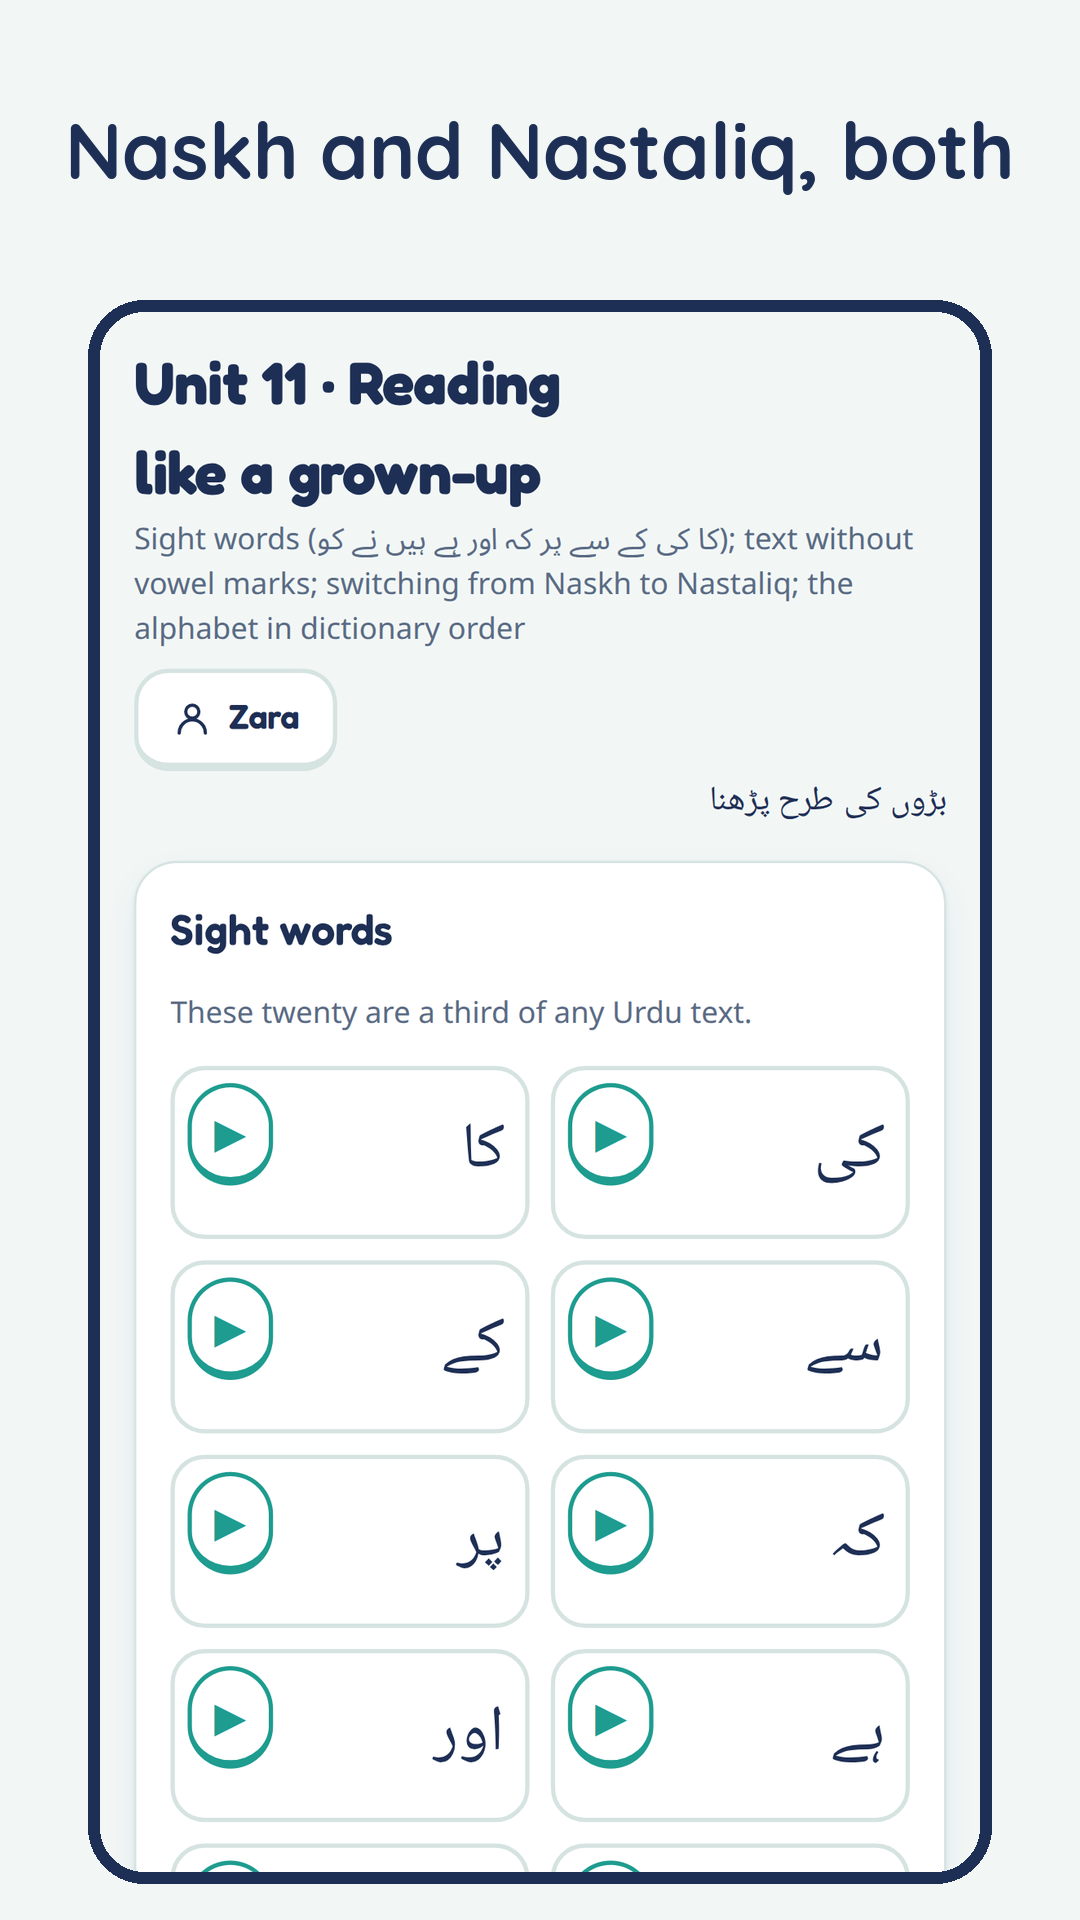
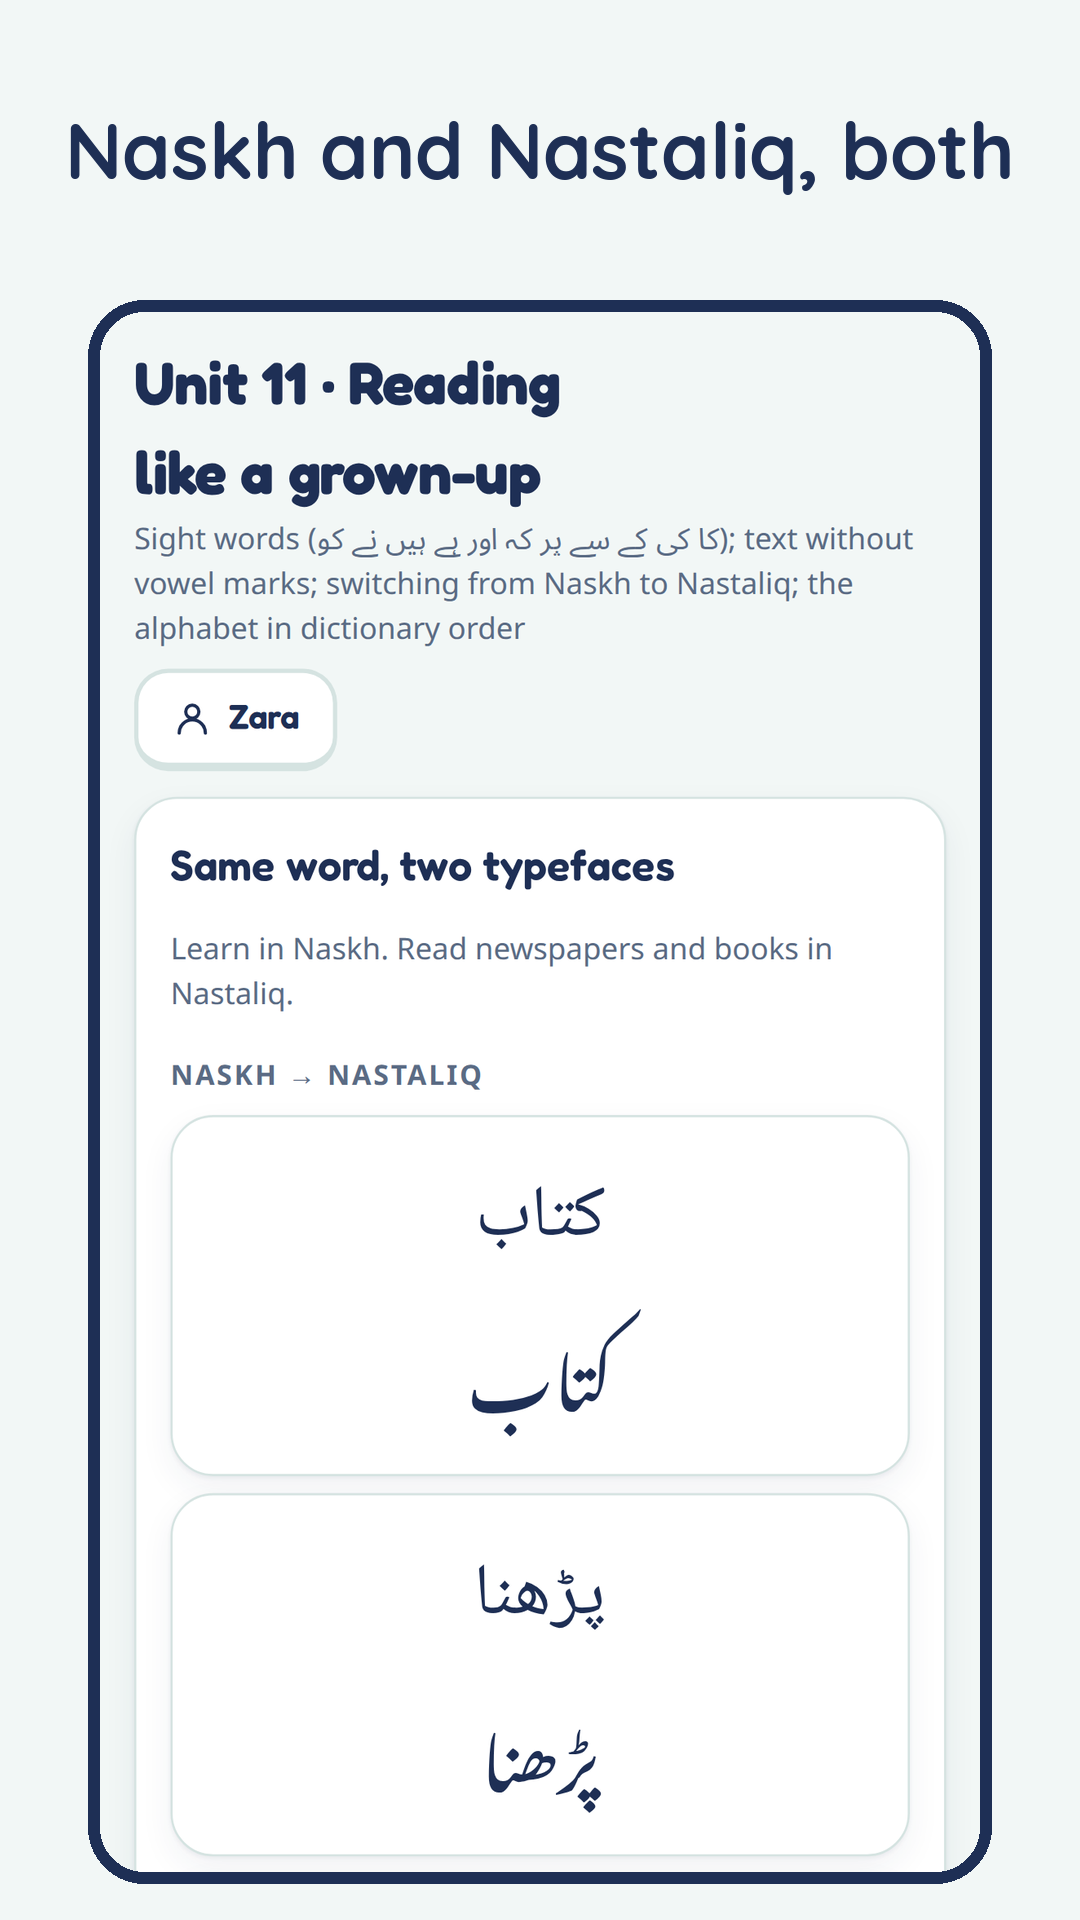
store: seeded screenshots, Play Console checklist; sweep driver waits for path render

diff --git a/mobile/tools/store_shots.py b/mobile/tools/store_shots.py
@@ -5,6 +5,16 @@ with sync_playwright() as p:
     b=p.chromium.launch(); ctx=b.new_context(viewport={"width":412,"height":880}, device_scale_factor=2.62); pg=ctx.new_page(); pg.on("dialog", lambda d: d.accept())
     pg.goto(f"http://localhost:{port}/"); pg.wait_for_timeout(1800); pg.screenshot(path=f"{out}/08_mode.png")
     pg.click("text=Just me"); pg.wait_for_timeout(300); pg.click("text=+ Add a learner"); pg.fill("input[placeholder=Name]","Zara"); pg.click("button:has-text('Start')"); pg.wait_for_timeout(1500)
+    # seed realistic demo progress so the Progress screenshot doesn't show zeros
+    pid = pg.evaluate("(async()=>{const {db}=await import('/src/db.js');const p=(await db.all('profiles'))[0];return p.id})()")
+    pg.evaluate("""async (pid)=>{const {db,uid}=await import('/src/db.js');const S=await import('/src/session.js');const now=Date.now(),DAY=86400000;
+      const p={id:pid,units:{},wpm:[],sessions:14,lastSession:now};for(let n=0;n<=6;n++)p.units[n]={passed:true,score:9,total:10,at:now-(7-n)*3*DAY};p.units[7]={lessons:{L1:now,L2:now}};
+      p.wpm=[22,28,31,37,44,49,58].map((w,i)=>({ts:now-(7-i)*4*DAY,wpm:w,unit:i+1}));await db.put('progress',p);
+      await S.ensureCards(pid,7);const cards=await db.by('cards','profileId',pid);let i=0;for(const c of cards){i++;const box=i%5===0?1:i%3===0?3:4+(i%2);await db.put('cards',{...c,box,seen:box+2,due:now+(i%4)*DAY-DAY,last:now-DAY});}
+      const drills=['tell','join','read','trace','dictation','quiz'];for(let k=0;k<90;k++){await db.put('attempts',{id:uid(),profileId:pid,unit:1+(k%6),drill:drills[k%6],item:cards[k%cards.length].item,correct:k%7!==0,ms:0,ts:now-(k%13)*DAY});}
+      for(let d=0;d<20;d++){await db.put('sessions',{id:uid(),profileId:pid,startedAt:now-(27-d-(d%3))*DAY,endedAt:now-(27-d-(d%3))*DAY+600000,bites:5,correct:9,total:10});}}""", pid)
+    pg.reload(); pg.wait_for_timeout(3500); pg.click(".bottom button:has-text('Progress')"); pg.wait_for_timeout(2000); pg.screenshot(path=f"{out}/07_progress.png")
+    pg.evaluate("""async()=>{const {db}=await import('/src/db.js');const p=(await db.all('profiles'))[0];const pr=await db.get('progress',p.id);pr.units={};pr.wpm=[];pr.sessions=0;await db.put('progress',pr);for(const c of await db.by('cards','profileId',p.id))await db.del('cards',c.id);}"""); pg.reload(); pg.wait_for_timeout(1500)
     # finish unit 0 quickly, then open alif
     pg.click(".btn-primary.btn-wide"); pg.wait_for_timeout(600)
     for _ in range(3): pg.click("button:has-text('Continue')"); pg.wait_for_timeout(350)
@@ -16,7 +26,7 @@ with sync_playwright() as p:
     pg.click(".bottom button:has-text('Units')"); pg.wait_for_timeout(700); pg.click(".ucard:nth-child(2)"); pg.wait_for_timeout(1200)
     pg.wait_for_selector(".words", timeout=8000); pg.evaluate("""()=>{const h=[...document.querySelectorAll('h3')].find(h=>h.textContent.includes('Read it'));const main=h.parentElement;[...main.children].forEach(c=>{if(c!==h&&c!==h.nextElementSibling&&!c.matches('.row,.bottom'))c.style.display='none'});h.style.marginTop='24px';window.scrollTo(0,0)}"""); pg.wait_for_timeout(400); pg.screenshot(path=f"{out}/04_words.png")
     pg.click(".bottom button:has-text('Units')"); pg.wait_for_timeout(700); pg.click(".ucard:nth-child(12)"); pg.wait_for_timeout(1200)
-    pg.wait_for_selector(".nastaliq", timeout=8000); pg.evaluate("""()=>{const card=document.querySelector('.nastaliq').closest('.card');const main=card.parentElement;[...main.children].forEach(c=>{if(c!==card&&!c.matches('.row,.bottom'))c.style.display='none'});card.querySelector('.words')?.remove();[...card.querySelectorAll('h2,p')].forEach(x=>x.remove());const h=document.createElement('h2');h.textContent='Naskh for learning, Nastaliq for print';card.prepend(h);window.scrollTo(0,0)}"""); pg.wait_for_timeout(400); pg.screenshot(path=f"{out}/05_nastaliq.png")
+    pg.wait_for_selector(".nastaliq", timeout=8000); pg.evaluate("""()=>{const h=[...document.querySelectorAll('.card h3')].find(x=>x.textContent.includes('Nastaliq'));const card=h.closest('.card');const main=card.parentElement;[...main.children].forEach(c=>{if(c!==card&&!c.matches('.row,.bottom'))c.style.display='none'});const keep=new Set([h,h.nextElementSibling]);[...card.children].forEach(c=>{if(!keep.has(c))c.remove()});const t=document.createElement('h2');t.textContent='Same word, two typefaces';card.prepend(t);const pp=document.createElement('p');pp.className='muted';pp.textContent='Learn in Naskh. Read newspapers and books in Nastaliq.';t.after(pp);[...card.querySelectorAll('.row .card')].forEach(x=>{x.style.width='100%';x.style.fontSize='34px'});window.scrollTo(0,0)}"""); pg.wait_for_timeout(400); pg.screenshot(path=f"{out}/05_nastaliq.png")
     # teacher assess
     ctx2=b.new_context(viewport={"width":412,"height":880}, device_scale_factor=2.62); pg2=ctx2.new_page(); pg2.on("dialog", lambda d: d.accept()); pg2.goto(f"http://localhost:{port}/"); pg2.wait_for_timeout(1500)
     pg2.click("text=My class"); pg2.wait_for_timeout(400); pg2.fill("input[placeholder='Your name']","Ms Sana"); pg2.fill("input[placeholder='4-digit PIN']","1234"); pg2.click("button:has-text('Save')"); pg2.wait_for_timeout(600)

diff --git a/mobile/tools/drive_all.py b/mobile/tools/drive_all.py
@@ -105,6 +105,9 @@ with sync_playwright() as p:
     while time.time()-t0<1500:
         js(pg.query_selector(".bottom button:has-text('Learn')")); pg.wait_for_timeout(700)
         if pg.query_selector("text=You have finished the course"): print("COURSE COMPLETE"); break
+        try: pg.wait_for_selector("button:has-text('Start:'), button:has-text('Continue:'), text=You have finished the course", timeout=8000)
+        except Exception: pass
+        if pg.query_selector("text=You have finished the course"): print("COURSE COMPLETE"); break
         sb=pg.query_selector("button:has-text('Start:')") or pg.query_selector("button:has-text('Continue:')")
         if not sb: print("no start button"); pg.screenshot(path="sweep_nostart.png", full_page=True); break
         label=sb.inner_text(); unit_title=pg.evaluate("e=>e.closest('.card').querySelector('.pill').innerText", sb)

diff --git a/store/PLAY_CONSOLE_CHECKLIST.md b/store/PLAY_CONSOLE_CHECKLIST.md
@@ -1,0 +1,44 @@
+# Play Console checklist · Urdu Qaida: Read & Quiz (com.oyekamal.urdureader)
+
+Everything the app side needs is in this folder. The steps below can only be done by Kamal in Play Console.
+Sources: research/16_play_store_readiness.md (official Google pages, fetched 2026-09-19).
+
+## 1. Account
+- [ ] Personal developer account ($25 once), identity verified.
+
+## 2. First upload
+- [ ] Upload `~/.kamil-harness/keys/releases/urdu-reader-0.7.0.aab` (versionCode 9, targetSdk 36) to an **Internal testing** track.
+- [ ] Enrol in Play App Signing when asked (upload key = the keystore in ~/.kamil-harness/keys/urdu-reader.env).
+
+## 3. Declarations (answer exactly like this)
+| Form | Answer |
+|---|---|
+| Data safety | **No data collected. No data shared.** All data on device; user-initiated export via Android share sheet. |
+| Privacy policy URL | https://oyekamal.github.io/urdu-reading-course/docs/privacy.html |
+| Ads | No ads |
+| App access | All functionality available without restrictions (no login) |
+| Content rating (IARC) | Category Education; no violence, no user-generated content, no gambling, no ads, no purchases → expect Everyone |
+| Target audience | Mixed: 5–8, 9–12, 13–15, 16–17, 18+ (children learn; parents and teachers use teacher/parent modes) |
+| Government / News / COVID / Financial features | No / No / No / No (Easypaisa donate is an outbound link, no in-app payment processing) |
+| Health | No |
+
+## 4. Store listing (copy from this folder)
+- `listing_en.md` → default listing (en-US). `listing_ur.md` → add localised listing ur-PK.
+- Icon `icon-512.png`, feature graphic `feature-graphic-1024x500.png`, screenshots `screenshots_en/01..08.png` (upload in that order), `screenshots_ur/` for the Urdu listing.
+- Category: Education. Tags: Language learning, Kids. Contact email + the WhatsApp number. Free, all countries (Pakistan first).
+
+## 5. Closed testing gate (new personal accounts)
+- [ ] Create a **Closed testing** track, add ≥12 testers (email list or Google Group), send the opt-in link.
+- [ ] Keep them opted in for **14 uninterrupted days**. Ask each to open the app at least once.
+- [ ] After 14 days: **Apply for production access** (dashboard). Google answers within ~7 days.
+- [ ] Promote the release to Production. Countries: all, Pakistan first. Price: Free.
+
+## 6. Before pressing Publish
+- [ ] Re-read the Families policy page linked in research/16 (it changes often).
+- [ ] Confirm the Easypaisa number and account name in the app (More → Donate) are right.
+- [ ] Optional: apply for Teacher Approved after launch.
+
+## Known follow-ups (not blockers)
+- Urdu UI localisation (the Urdu listing shows an English UI under Urdu captions).
+- Human voice recording to replace the CC-BY-NC machine voice (recording/SCRIPT.md).
+- Tablet screenshots and a 30 s promo video.
